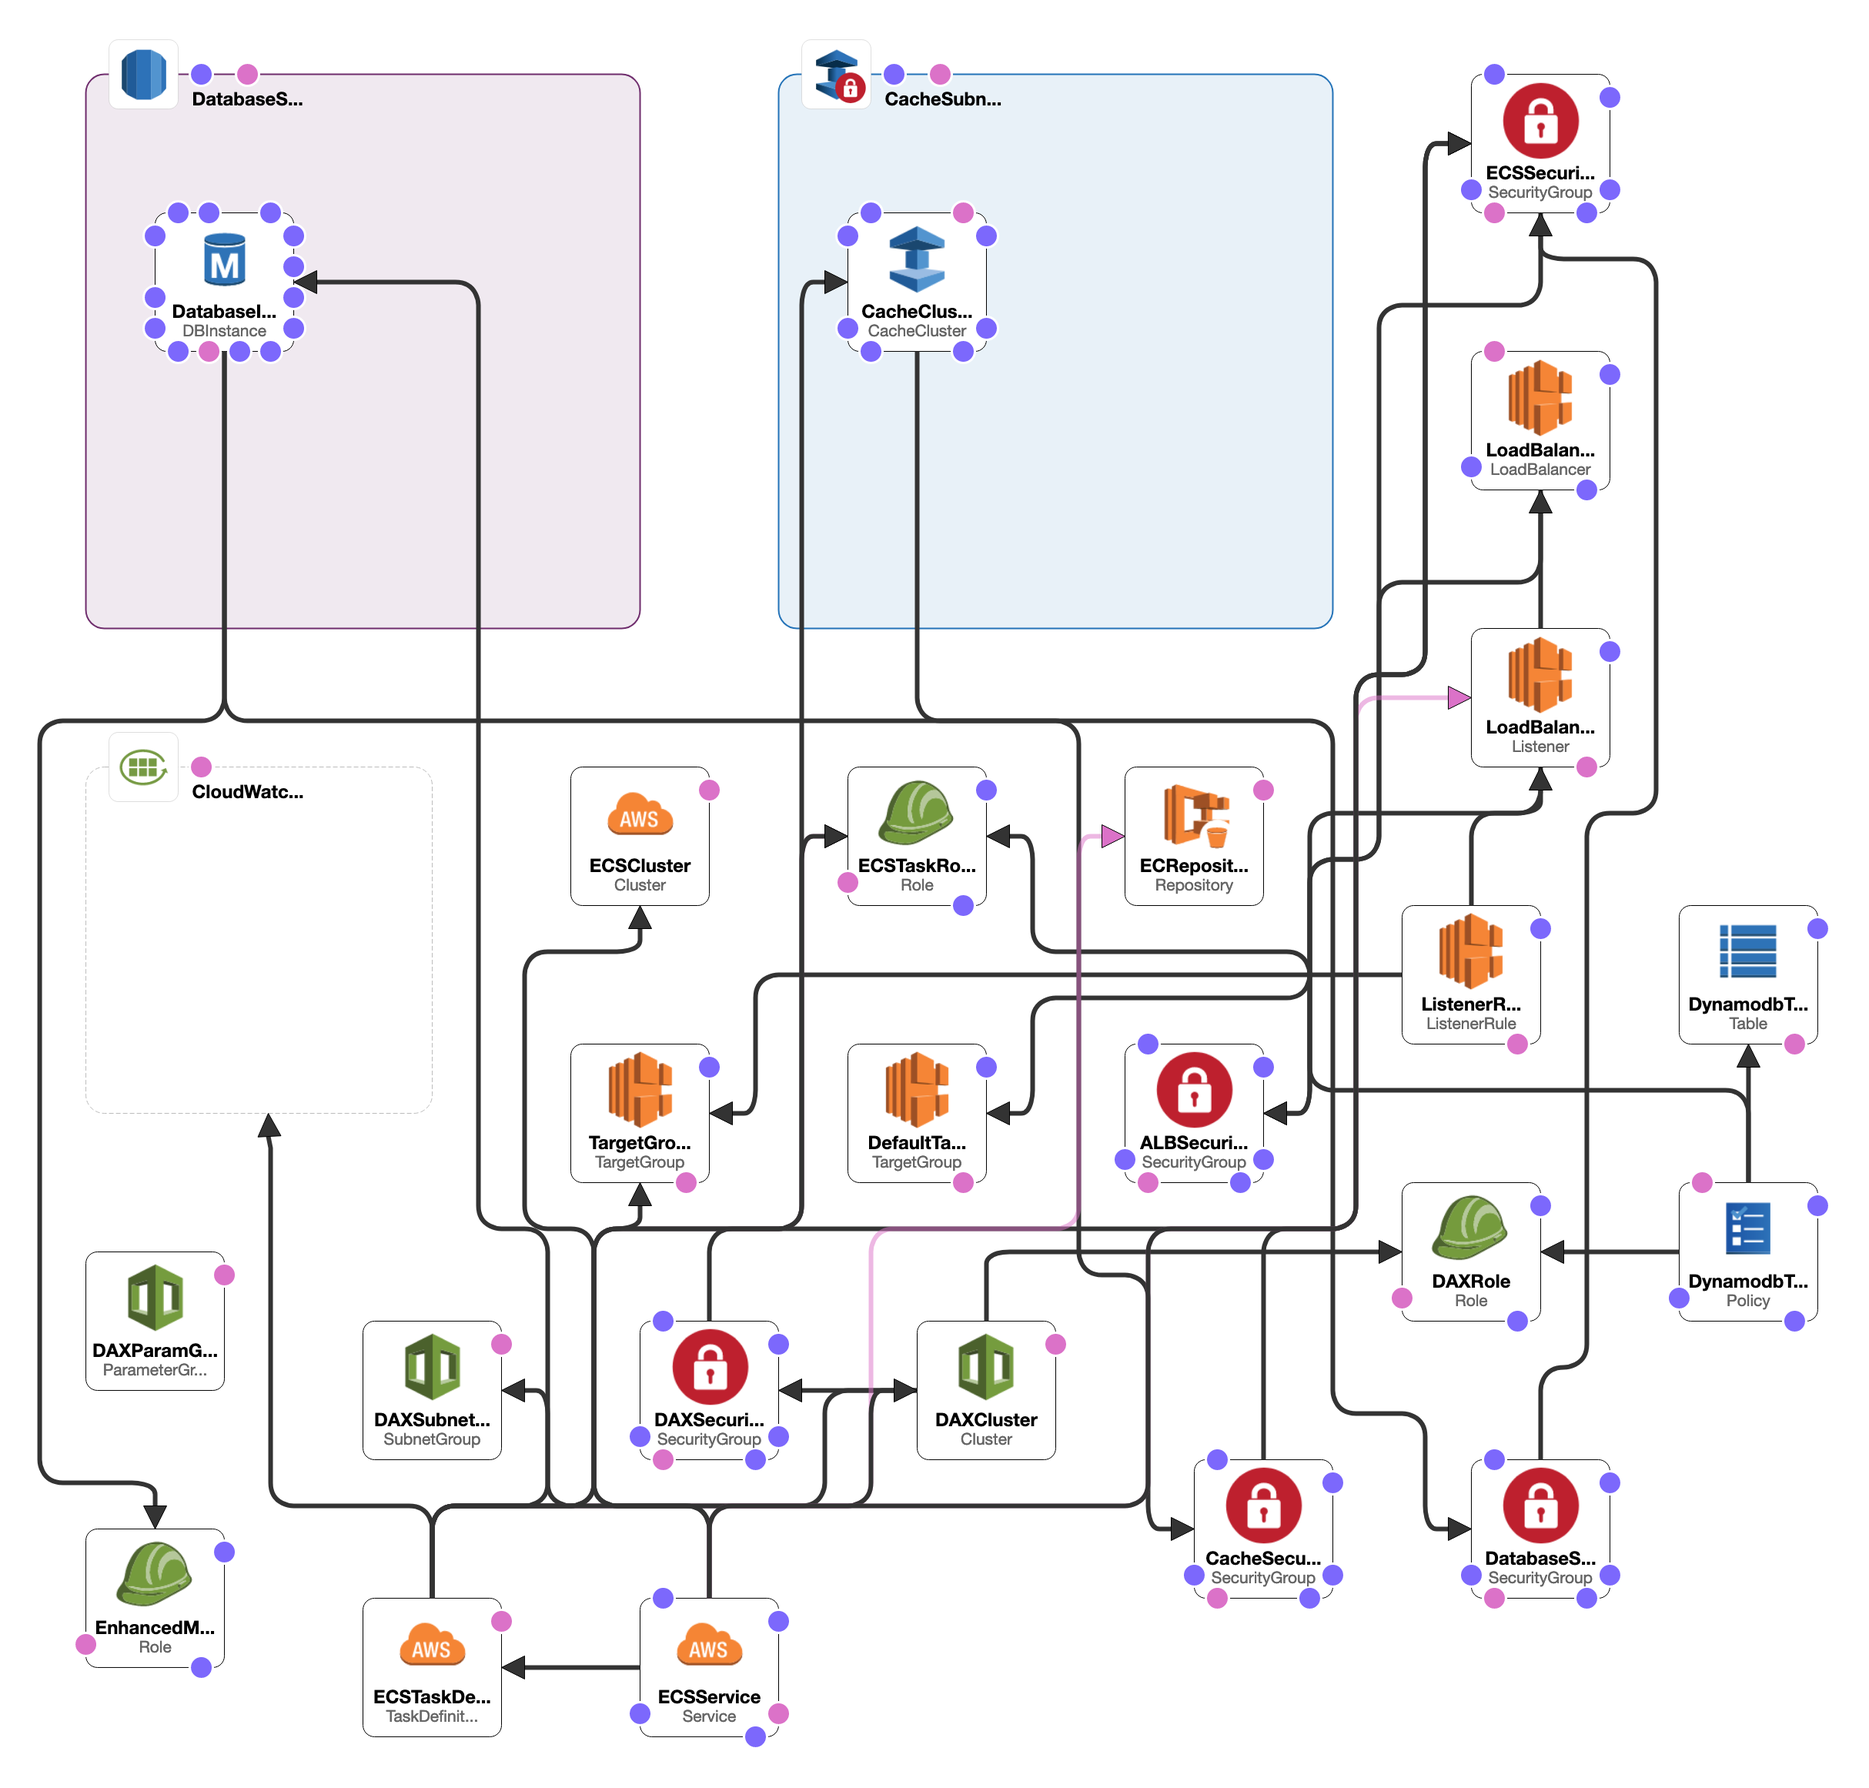
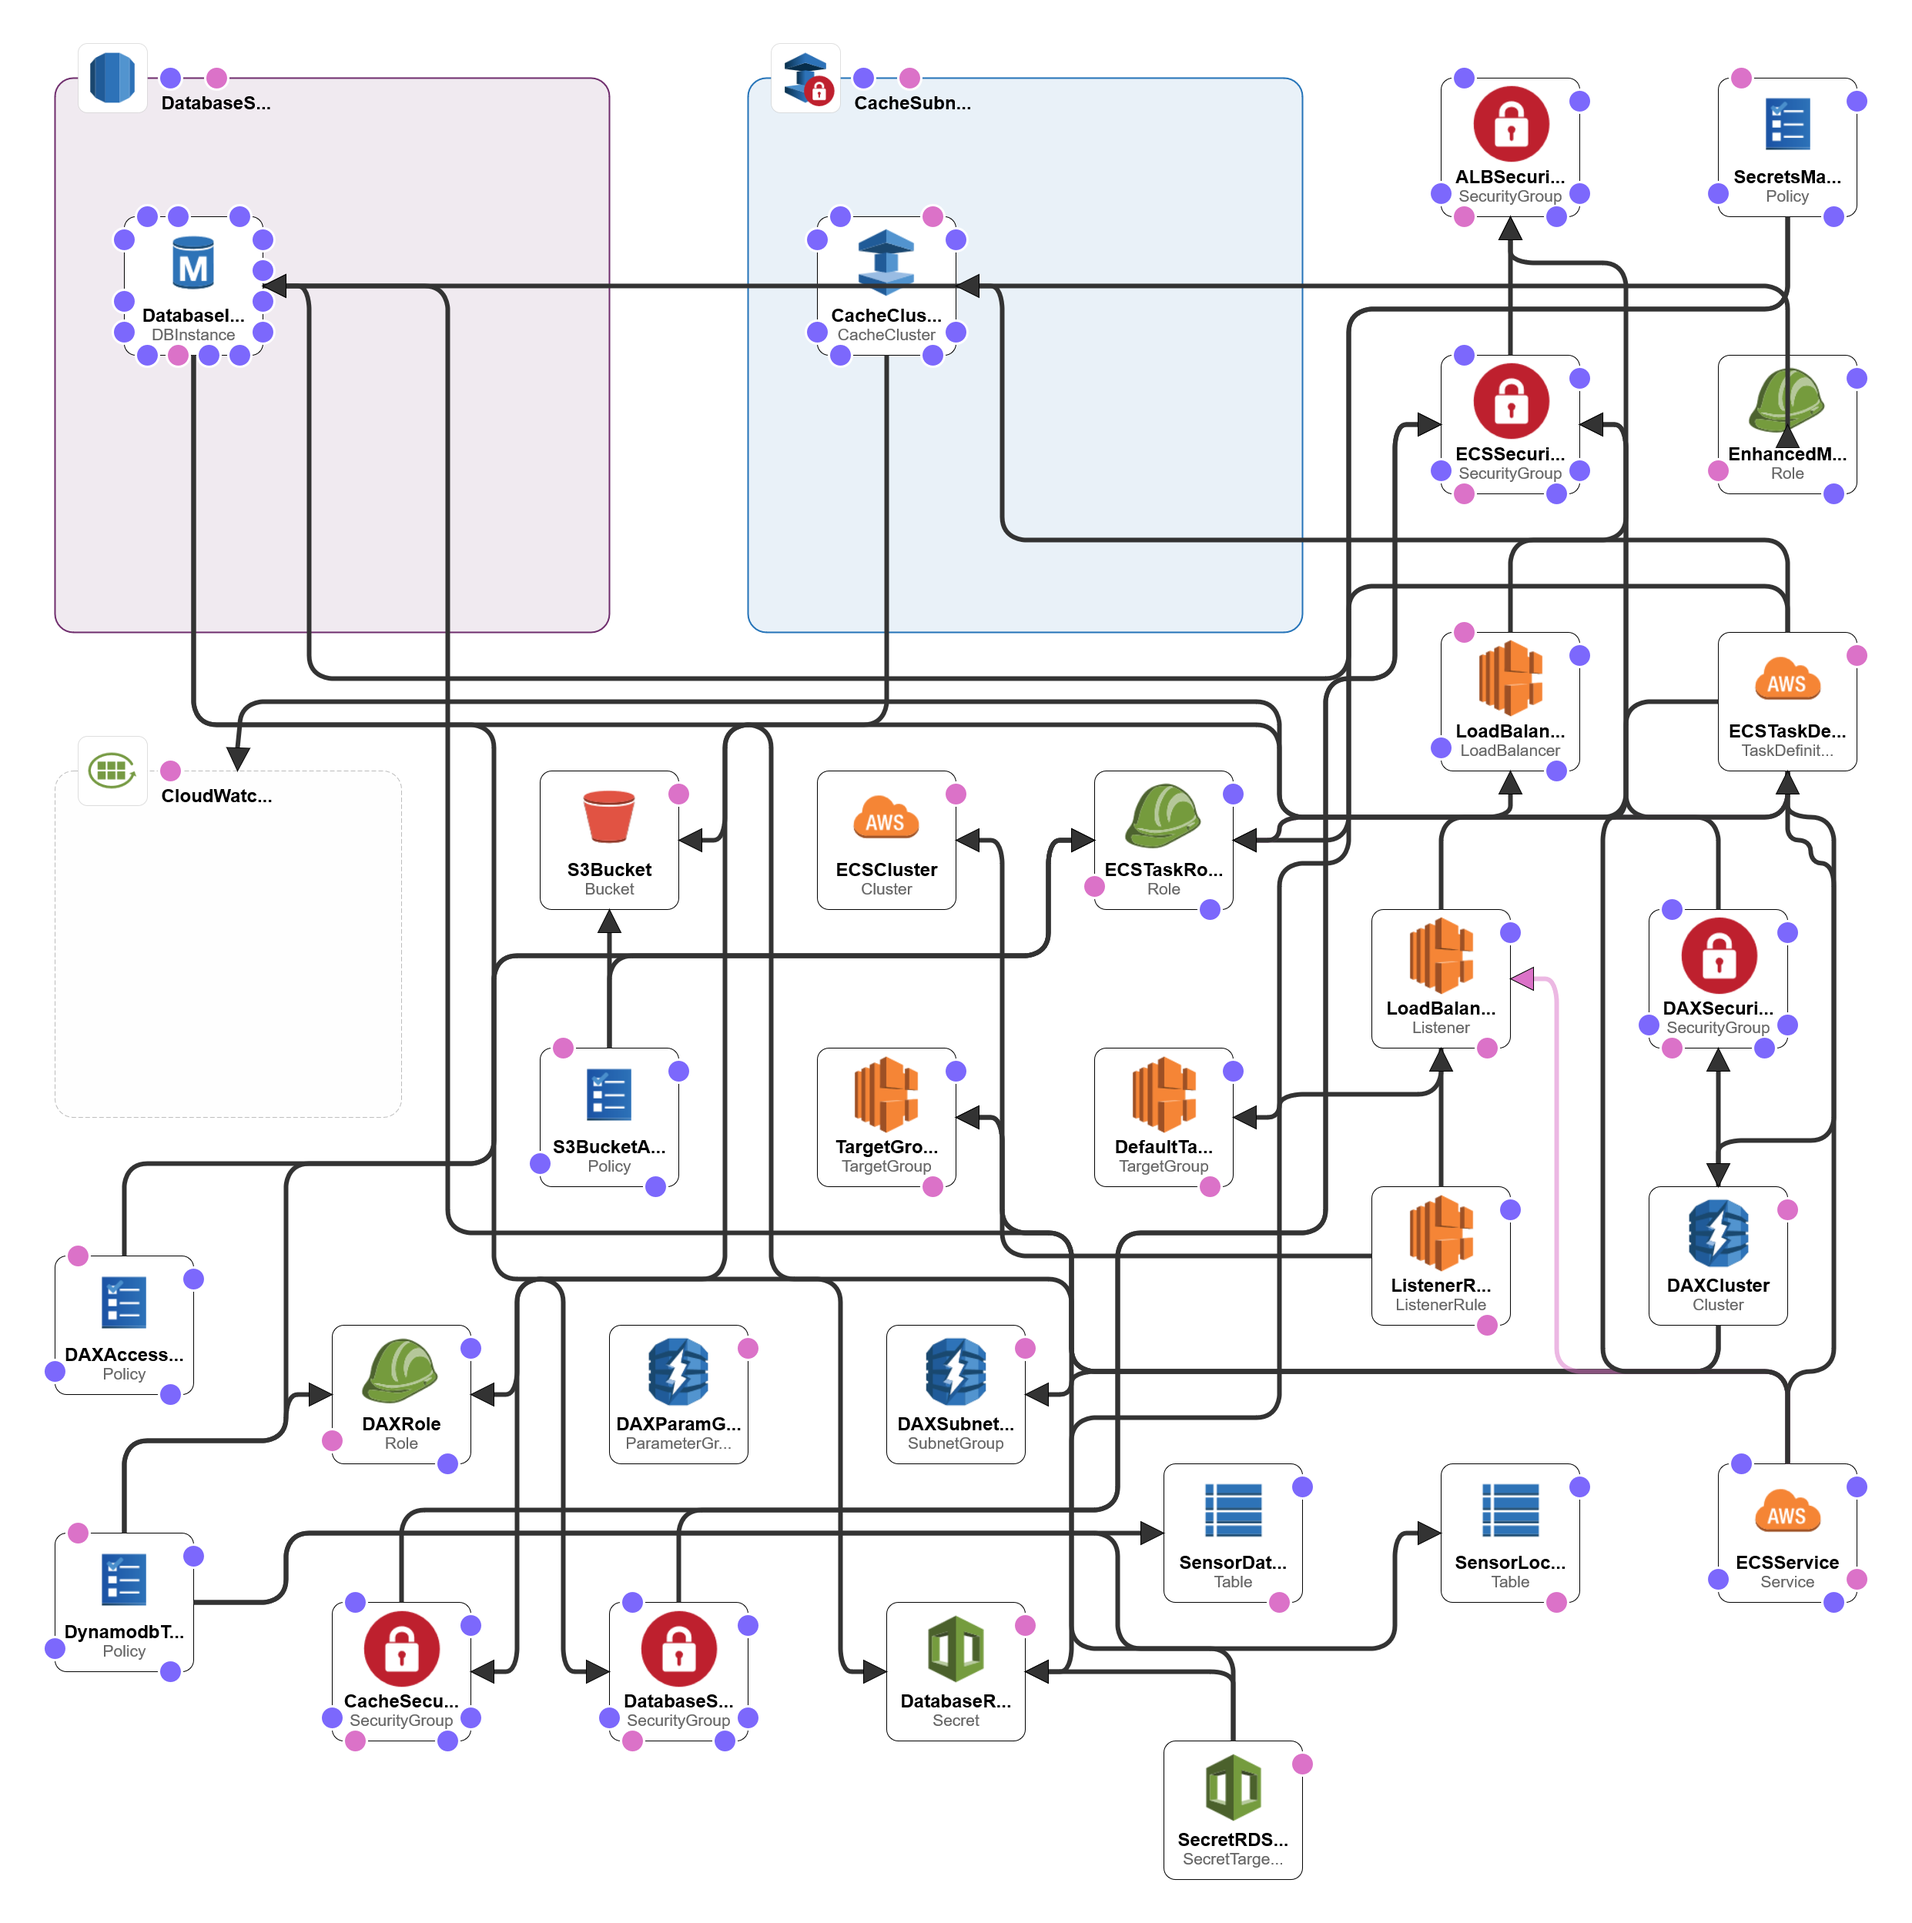
Secrets managet support

diff --git a/demo/populate_mysql.py b/demo/populate_mysql.py
@@ -1,0 +1,111 @@
+#!/usr/bin/env python
+
+import boto3
+import botocore.session
+import json
+import mysql.connector as mysql
+import os
+import requests
+
+from subprocess import Popen, PIPE
+
+WORKDIR='/tmp/'
+
+def get_files():
+    os.chdir(WORKDIR)
+    url='https://raw.githubusercontent.com/datacharmer/test_db/master/'
+    files= ['employees.sql',
+            'load_departments.dump',
+            'load_employees.dump',
+            'load_dept_emp.dump',
+            'load_dept_manager.dump',
+            'load_titles.dump',
+            'load_salaries1.dump',
+            'load_salaries2.dump',
+            'load_salaries3.dump',
+            'show_elapsed.sql']
+    for sqlfile in files:
+        print("Downloading " + url + sqlfile)
+        getter = requests.get(url + sqlfile)
+        open(WORKDIR + sqlfile, 'wb').write(getter.content)
+
+
+def rm_files():
+    print("Cleaning up downloaded files")
+    os.system('rm -rf ' + WORKDIR + '*')
+
+
+def get_secret():
+    if 'DB_HOST' in os.environ:
+        db_user = os.environ['DB_USER']
+        db_pass = os.environ['DB_PASS']
+        db_host = os.environ['DB_HOST']
+        db_name = os.environ['DB_DB']
+    else:
+        secret_path = os.environ["SECRETS_MANAGER_PATH"]
+        region_name = os.environ["AWS_DEFAULT_REGION"]
+
+        sm_session = boto3.session.Session()
+        sm_client = sm_session.client(
+            service_name='secretsmanager',
+            region_name=region_name
+        )
+
+        try:
+            get_secret_value_response = sm_client.get_secret_value(
+                SecretId=secret_path
+            )
+        except ClientError as e:
+            print("Something went wrong with Secrets Manager: {}".format(e))
+        else:
+            secret = json.loads(get_secret_value_response['SecretString'])
+            db_user = secret['username']
+            db_pass = secret['password']
+            db_host = secret['host']
+            db_name = secret['dbname']     
+    
+    return (db_user, db_pass, db_host, db_name)
+
+
+def check_if_popluated():
+    dbuser, dbpass, dbhost, dbname = get_secret()
+    db = mysql.connect( host     = dbhost,
+                        user     = dbuser,
+                        passwd   = dbpass,
+                        database = dbname)
+
+    cursor = db.cursor()
+    try:
+        cursor.execute('select count(1) from titles')
+        print("Database already populated, exiting")
+    except:
+        print("Database is empty, populating")
+        get_files()
+        executeSqlScript(dbuser, dbpass, dbhost, dbname)
+        rm_files()
+
+def executeSqlScript(dbuser, dbpass, dbhost, dbname, ignoreErrors=False):
+    sourceCmd = "SOURCE %s" % ('employees.sql',)
+    cmdList = [ "/usr/bin/mysql",
+                "-h", dbhost,
+                "-u", dbuser,
+                "-p" + dbpass,
+                "--database", dbname,
+                "--unbuffered" ] 
+    if ignoreErrors : 
+        cmdList.append( "--force" )
+    else:
+        cmdList.extend( ["--execute", sourceCmd ] )
+
+    print("Inserting downloaded data")
+    process = Popen( cmdList 
+                   , cwd=WORKDIR
+                   , stdout=PIPE 
+                   , stderr=(STDOUT if ignoreErrors else PIPE) 
+                   , stdin=(PIPE if ignoreErrors else None) )
+    stdOut, stdErr = process.communicate( sourceCmd if ignoreErrors else None )
+    if stdErr is not None and len(stdErr) > 0 : 
+        print("Something went wrong inserting the data")
+    return stdOut
+
+check_if_popluated()

diff --git a/demo/app/connections.py b/demo/app/connections.py
@@ -11,11 +11,13 @@ import redis
 
 def get_secret():
 
-    if 'DB_USER' in os.environ:
+    if 'DB_HOST' in os.environ:
         db_user = os.environ['DB_USER']
         db_pass = os.environ['DB_PASS']
+        db_host = os.environ['DB_HOST']
+        db_name = 'employees'
     else:
-        secret_path = os.environ["SECRET_MANAGER_PATH"]
+        secret_path = os.environ["SECRETS_MANAGER_PATH"]
         region_name = os.environ["REGION"]
 
         # Create a Secrets Manager client
@@ -52,13 +54,13 @@ def get_secret():
                 raise e
         else:
             secret = json.loads(get_secret_value_response['SecretString'])
-            
             db_user = secret['username']
             db_pass = secret['password']
-               
-        return (db_user, db_pass)
+            db_host = secret['host']
+            db_name = secret['dbname']     
+        return (db_user, db_pass, db_host, db_name)
 
-print(get_secret())
+
 def _elasticache_connect(db):
     try:
         r = redis.Redis(host=os.environ['CACHE_HOST'],
@@ -72,11 +74,11 @@ def _elasticache_connect(db):
             
 def _rds_connect():
     try:
-        dbuser, dbpass = get_secret()
-        db = mysql.connect(host      = os.environ['DB_HOST'],
-                            user     = dbuser,
-                            passwd   = dbpass,
-                            database = 'employees')
+        dbuser, dbpass, dbhost, dbname = get_secret()
+        db = mysql.connect(host     = dbhost,
+                           user     = dbuser,
+                           passwd   = dbpass,
+                           database = dbname)
 
         return db
     except mysql.Error as e:
